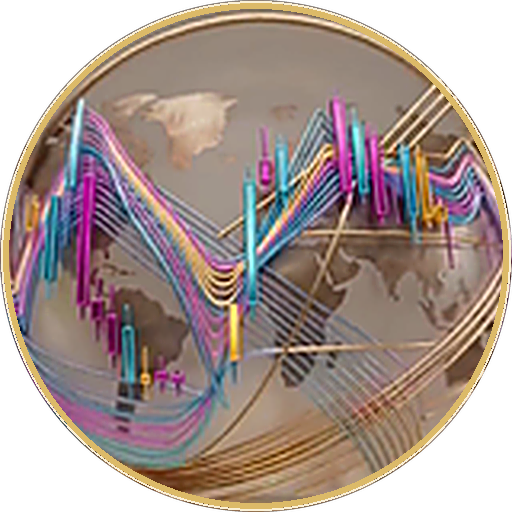
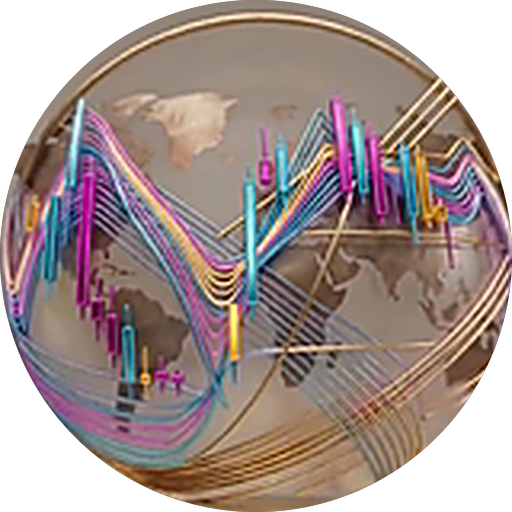
Identidade metalica de volta: totem circular com anel vivo, VECTRA em ouro com brilho corrente

diff --git a/atlas-ui/atlas-cockpit.css b/atlas-ui/atlas-cockpit.css
@@ -528,3 +528,98 @@ body.vx-denso [id$="-wrap-el"]{ display:none !important }
 }
 #vx-head .vx-logo{ width:38px; height:38px; border-radius:50%; display:block;
   image-rendering:auto; filter:saturate(1.06) contrast(1.03) }
+
+/* ═══════════════════════════════════════════════════════════
+   identidade metálica: o padrão da marca, em movimento
+   ═══════════════════════════════════════════════════════════ */
+:root{
+  --mt-ouro:#F5A623; --mt-claro:#FFF3C4; --mt-fundo:#8A5E14; --mt-escuro:#D68C0F;
+}
+
+/* ── o totem circular, com anel metálico e brilho vivo ── */
+#vx-head .vx-mark{
+  width:42px; height:42px; border-radius:50%; padding:2px; position:relative; isolation:isolate;
+  background:radial-gradient(circle at 50% 30%, #101B2E 0%, #060A12 78%);
+  box-shadow:0 0 0 1px rgba(245,166,35,.30), 0 0 18px rgba(245,166,35,.32);
+}
+/* o anel metálico gira sozinho; a logo dentro fica parada */
+#vx-head .vx-mark::before{
+  content:''; position:absolute; inset:0; border-radius:50%; padding:2px; pointer-events:none;
+  background:conic-gradient(from 210deg, #6B4A12, #F5A623, #FFF6D8, #E9B24C, #8A5E14, #F5A623, #6B4A12);
+  -webkit-mask:linear-gradient(#000 0 0) content-box, linear-gradient(#000 0 0);
+  -webkit-mask-composite:xor; mask:linear-gradient(#000 0 0) content-box, linear-gradient(#000 0 0);
+  mask-composite:exclude;
+  animation:totemGiro 14s linear infinite;
+}
+#vx-head .vx-mark::after{
+  content:''; position:absolute; inset:-7px; border-radius:50%; z-index:-1;
+  background:radial-gradient(circle, rgba(245,166,35,.30) 0%, rgba(245,166,35,0) 68%);
+  animation:totemPulso 4.5s ease-in-out infinite;
+}
+#vx-head .vx-logo{
+  width:100%; height:100%; border-radius:50%; display:block; object-fit:cover;
+  background:#070c15; box-shadow:inset 0 0 10px rgba(0,0,0,.9);
+  filter:saturate(1.15) contrast(1.06) brightness(1.04);
+  transition:transform .55s cubic-bezier(.175,.885,.32,1.275), filter .4s;
+}
+#vx-head .vx-mark:hover::before{ animation-play-state:paused }
+#vx-head .vx-mark:hover .vx-logo{ transform:rotate(360deg) scale(1.06); filter:saturate(1.3) brightness(1.15) }
+
+/* ── VECTRA em metal, com brilho correndo na palavra ── */
+#vx-head .vx-brand b{
+  font:800 17px/1 'Inter',sans-serif; letter-spacing:.22em;
+  background:linear-gradient(100deg,var(--mt-fundo) 0%,var(--mt-ouro) 22%,var(--mt-claro) 38%,#FFFDF4 48%,var(--mt-claro) 58%,var(--mt-ouro) 74%,var(--mt-fundo) 100%);
+  background-size:260% 100%; background-position:0% 50%;
+  -webkit-background-clip:text; background-clip:text; color:transparent; -webkit-text-fill-color:transparent;
+  filter:drop-shadow(0 0 10px rgba(245,166,35,.38)) drop-shadow(0 1px 0 rgba(0,0,0,.55));
+  animation:metalCorre 7s ease-in-out infinite;
+}
+#vx-head .vx-brand small{
+  font:700 7.4px/1 'Inter',sans-serif; letter-spacing:.26em; text-transform:uppercase;
+  background:linear-gradient(90deg,#B98B3C,#F3DFA6,#C79A46);
+  -webkit-background-clip:text; background-clip:text; color:transparent; -webkit-text-fill-color:transparent;
+  filter:drop-shadow(0 0 6px rgba(245,166,35,.25));
+}
+#vx-head .vx-brand small::before{ content:none }
+
+/* ── cabeçalho com profundidade de metal, não de app ── */
+#vx-head{ position:relative; background:linear-gradient(180deg,#0E1626 0%,#0A111D 62%,#070C15 100%) }
+#vx-head::after{
+  content:''; position:absolute; left:0; right:0; bottom:0; height:1px; pointer-events:none;
+  background:linear-gradient(90deg,rgba(245,166,35,0) 0%,rgba(245,166,35,.75) 18%,rgba(255,243,196,.95) 50%,rgba(245,166,35,.75) 82%,rgba(245,166,35,0) 100%);
+  opacity:.85;
+}
+
+/* ── navegação: ícone ativo em ouro, com halo ── */
+.side-nav button.ativo, .side-nav .ativo{ color:var(--mt-ouro) !important; }
+.side-nav button.ativo svg, .side-nav .ativo svg{ filter:drop-shadow(0 0 8px rgba(245,166,35,.85)) }
+
+/* ── títulos de cartão e números: metal discreto, sem perder leitura ── */
+#vx-work .vx-card-h h3{
+  background:linear-gradient(90deg,#C89B4B,#F6E3B2 55%,#C89B4B);
+  -webkit-background-clip:text; background-clip:text; color:transparent; -webkit-text-fill-color:transparent;
+}
+#vx-kpis .kpi b{ filter:drop-shadow(0 0 9px rgba(245,166,35,.16)) }
+#vx-kpis .kpi:first-child b{
+  background:linear-gradient(100deg,#E7C879,#FFF8E2 45%,#C89B4B);
+  -webkit-background-clip:text; background-clip:text; color:transparent; -webkit-text-fill-color:transparent;
+  filter:drop-shadow(0 0 12px rgba(245,166,35,.35));
+}
+
+@keyframes metalCorre{ 0%,100%{background-position:0% 50%} 50%{background-position:100% 50%} }
+@keyframes totemGiro{ to{ transform:rotate(360deg) } }
+@keyframes totemPulso{ 0%,100%{opacity:.45; transform:scale(.96)} 50%{opacity:.9; transform:scale(1.04)} }
+@media (prefers-reduced-motion: reduce){
+  #vx-head .vx-mark::before, #vx-head .vx-mark::after, #vx-head .vx-brand b{ animation:none !important }
+}
+
+/* profundidade nos blocos: metal escovado, não cartão chapado */
+#vx-kpis{ background:linear-gradient(180deg,#0B1424 0%,#080D16 100%) }
+#vx-kpis .kpi{ position:relative }
+#vx-kpis .kpi:first-child::before{
+  content:''; position:absolute; left:0; top:8px; bottom:8px; width:2px; border-radius:2px;
+  background:linear-gradient(180deg,rgba(245,166,35,.05),var(--mt-ouro),rgba(245,166,35,.05));
+  box-shadow:0 0 10px rgba(245,166,35,.5);
+}
+#vx-work .vx-card{ box-shadow:inset 0 1px 0 rgba(255,255,255,.035), 0 10px 26px rgba(0,0,0,.35) }
+#vx-work .vx-card-h{ background:linear-gradient(180deg,rgba(255,255,255,.028),rgba(255,255,255,0)) }

diff --git a/atlas-ui/index.html b/atlas-ui/index.html
@@ -1894,9 +1894,9 @@
   #tf-select, #sym-select { min-height: 40px; }
 }
 </style>
-  <link rel="stylesheet" href="./atlas-cockpit.css?v=9">
+  <link rel="stylesheet" href="./atlas-cockpit.css?v=10">
   <script src="./layout-vectra.js?v=11" defer></script>
-  <script src="./atlas-cockpit.js?v=9" defer></script>
+  <script src="./atlas-cockpit.js?v=10" defer></script>
 </body>
 
 </html>
